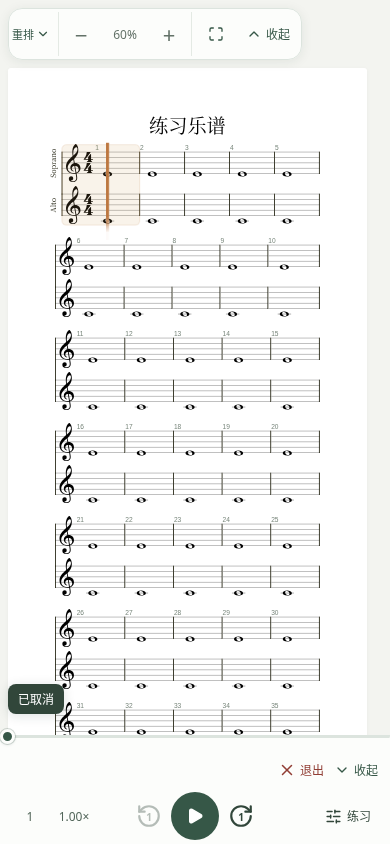
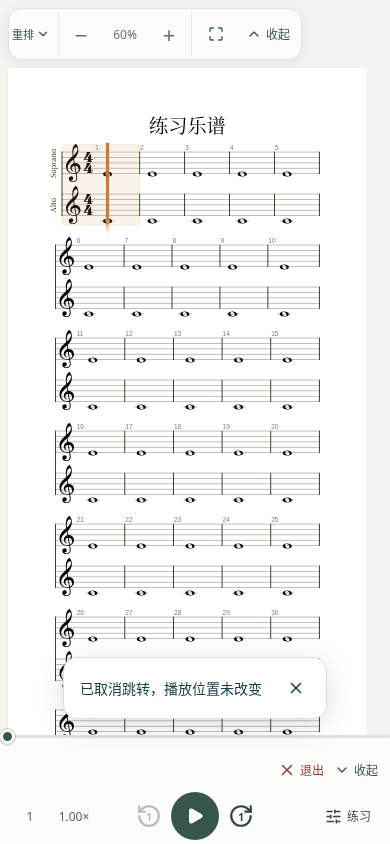
复用取消提示并提前跟随下一行谱面

Changed region(s): [[0.0, 0.7701, 0.8308, 0.8626]]

diff --git a/src/client/playback/playback-timeline.tsx b/src/client/playback/playback-timeline.tsx
@@ -1,22 +1,25 @@
+import { FeedbackMessage } from '../components/feedback-message';
+import { useFeedbackMessage } from '../components/use-feedback-message';
 import { useCallback, useEffect, useLayoutEffect, useRef, useState, type CSSProperties } from 'react';
 export type Timeline = { value: number; min?: number; max: number; step?: number; disabled: boolean; label(value: number): string; seek(value: number): void; preview?(value: number | null): void };
 export function PlaybackTimeline({ timeline }: { timeline: Timeline }) {
   const [draft, setDraft] = useState<number | null>(null);
-  const [cancelled, setCancelled] = useState(false);
+  const feedback = useFeedbackMessage();
+  const { setMessage, dismiss } = feedback;
   const bubble = useRef<HTMLOutputElement>(null);
   const [halfWidth, setHalfWidth] = useState(72);
   const label = timeline.label(draft ?? timeline.value);
-  useLayoutEffect(() => { if (bubble.current) setHalfWidth(bubble.current.getBoundingClientRect().width / 2 + 8); }, [label, draft, cancelled]);
+  useLayoutEffect(() => { if (bubble.current) setHalfWidth(bubble.current.getBoundingClientRect().width / 2 + 8); }, [label, draft]);
   const pending = useRef<number | null>(null);
   const interaction = useRef<'pointer'|'keyboard'|'cancelled'|null>(null);
   const pointer = useRef<{ id: number; y: number } | null>(null);
   const latest = useRef(timeline);
   useEffect(() => { latest.current = timeline; }, [timeline]);
   const preview = (value: number) => { pending.current = value; setDraft(value); latest.current.preview?.(value); };
-  const cancel = useCallback(() => { if (interaction.current === null) return; pending.current = null; interaction.current = 'cancelled'; setDraft(null); setCancelled(pointer.current !== null); latest.current.preview?.(null); }, []);
+  const cancel = useCallback(() => { if (interaction.current === null || interaction.current === 'cancelled') return; pending.current = null; interaction.current = 'cancelled'; setDraft(null); setMessage('已取消跳转，播放位置未改变', { duration: 5000 }); latest.current.preview?.(null); }, [setMessage]);
   const commit = useCallback(() => {
     const value = pending.current;
-    pending.current = null; interaction.current = null; setDraft(null); setCancelled(false);
+    pending.current = null; interaction.current = null; setDraft(null);
     if (value !== null && !latest.current.disabled) latest.current.seek(value);
     else latest.current.preview?.(null);
   }, []);
@@ -27,14 +30,13 @@ export function PlaybackTimeline({ timeline }: { timeline: Timeline }) {
       move(event);
       pointer.current = null;
       if (interaction.current === 'pointer') commit();
-      else if (interaction.current === 'cancelled') setCancelled(false);
     };
     const move = (event: PointerEvent) => {
       if (pointer.current && event.pointerId === pointer.current.id && Math.abs(event.clientY - pointer.current.y) > 72 && interaction.current === 'pointer') cancel();
     };
     window.addEventListener('pointermove', move);
     window.addEventListener('pointerup', release);
-    const abort = () => { cancel(); pointer.current = null; setCancelled(false); };
+    const abort = () => { cancel(); pointer.current = null; };
     window.addEventListener('pointercancel', abort);
     window.addEventListener('blur', abort);
     return () => {
@@ -47,13 +49,13 @@ export function PlaybackTimeline({ timeline }: { timeline: Timeline }) {
   }, [cancel, commit]);
   const min = timeline.min ?? 0;
   const percent = timeline.max > min ? ((draft ?? timeline.value) - min) / (timeline.max - min) * 100 : 0;
-  return <div className="practice-timeline-track" style={{ '--practice-progress': `${percent}%` } as CSSProperties}>
-    {(draft !== null || cancelled) && <output ref={bubble} className="practice-timeline-preview" style={{ left: `clamp(${halfWidth}px, calc(${percent}% + ${10 - percent * .2}px), calc(100% - ${halfWidth}px))` }}>{cancelled ? '已取消' : label}</output>}
+  return <><div className="practice-timeline-track" style={{ '--practice-progress': `${percent}%` } as CSSProperties}>
+    {draft !== null && <output ref={bubble} className="practice-timeline-preview" style={{ left: `clamp(${halfWidth}px, calc(${percent}% + ${10 - percent * .2}px), calc(100% - ${halfWidth}px))` }}>{label}</output>}
     <input className="practice-timeline" aria-label="播放进度" aria-valuetext={label}
       type="range" min={min} max={timeline.max} step={timeline.step ?? 1} disabled={timeline.disabled} value={draft ?? timeline.value}
-      onPointerDown={event => { if (pointer.current && interaction.current !== 'cancelled') return; pointer.current = { id: event.pointerId, y: event.clientY }; setCancelled(false); interaction.current = 'pointer'; preview(timeline.value); }}
+      onPointerDown={event => { if (pointer.current && interaction.current !== 'cancelled') return; pointer.current = { id: event.pointerId, y: event.clientY }; dismiss(); interaction.current = 'pointer'; preview(timeline.value); }}
       onKeyDown={event => { if (['ArrowLeft','ArrowRight','ArrowUp','ArrowDown','Home','End','PageUp','PageDown'].includes(event.key) && !pointer.current) interaction.current = 'keyboard'; if (event.key === 'Escape') cancel(); }}
       onChange={event => { const value = Number(event.target.value); if (interaction.current === null) timeline.seek(value); else if (interaction.current !== 'cancelled') preview(value); }}
       onKeyUp={() => { if (interaction.current === 'keyboard') commit(); }} onBlur={() => { if (interaction.current === 'keyboard') commit(); }} />
-  </div>;
+  </div><FeedbackMessage feedback={feedback} closeLabel="关闭跳转提示" /></>;
 }

diff --git a/packages/player/src/session.ts b/packages/player/src/session.ts
@@ -75,7 +75,7 @@ export function createPlayerSession(element: HTMLElement, bytes: Uint8Array, opt
     display: { scale: .6, resources: { secondaryGlyphColor: '#000000', barNumberColor: '#78867b' } },
     player: { playerMode: alphaTab.PlayerMode.EnabledSynthesizer, soundFont: '/soundfont/sonivox.sf2', enableCursor: true,
       enableAnimatedBeatCursor: true, enableElementHighlighting: true, enableUserInteraction: false,
-      scrollElement: viewport ?? element, scrollMode: viewport ? alphaTab.ScrollMode.OffScreen : alphaTab.ScrollMode.Off, scrollOffsetY: -28 },
+      scrollElement: viewport ?? element, scrollMode: alphaTab.ScrollMode.Off },
   });
   const originalColors = { ...api.settings.display.resources };
   const play = () => {
@@ -245,8 +245,7 @@ export function createPlayerSession(element: HTMLElement, bytes: Uint8Array, opt
 
   const setFollow = (enabled: boolean) => {
     if (enabled) follow.restore(); else follow.suspend();
-    api.settings.player.scrollMode = enabled && viewport ? alphaTab.ScrollMode.OffScreen : alphaTab.ScrollMode.Off;
-    api.updateSettings(); update({ following: enabled });
+    update({ following: enabled });
     if (enabled && state.status === 'ready') scrollToMeasure(state.measure);
   };
   const intent = () => { anchor = null; follow.noteManualScrollIntent(performance.now()); };
@@ -371,12 +370,19 @@ export function createPlayerSession(element: HTMLElement, bytes: Uint8Array, opt
     const tempo = tempoAt(event.currentTick);
     if (index >= 0 && (index !== state.measure || tempo.bpm !== state.tempo?.bpm || tempo.unit !== state.tempo?.unit)) {
       update({ measure: index, tempo });
-      if (api.isCollection && state.following && viewport) {
-        const bounds = api.boundsLookup?.findMasterBar(api.tickCache!.masterBars[index].masterBar)?.realBounds;
-        if (!bounds) scrollToMeasure(index);
+      if (state.following && viewport && !preview) {
+        const measure = api.boundsLookup?.findMasterBar(api.tickCache!.masterBars[index].masterBar);
+        const row = measure?.staffSystemBounds?.realBounds ?? measure?.realBounds;
+        if (!row) scrollToMeasure(index);
         else {
-          const top = element.getBoundingClientRect().top + bounds.y, view = viewport.getBoundingClientRect();
-          if (top < view.top + 28 || top + bounds.h > view.bottom) scrollToMeasure(index);
+          const origin = element.getBoundingClientRect(), view = viewport.getBoundingClientRect();
+          const scale = element.offsetWidth ? origin.width / element.offsetWidth : 1;
+          const clearance = Math.max(16, parseFloat(viewport.ownerDocument?.defaultView?.getComputedStyle(viewport).scrollPaddingTop ?? '') || 0);
+          const next = api.boundsLookup?.staffSystems.find(system => system.realBounds.y > row.y + 1)?.realBounds;
+          const top = origin.top + row.y * scale, bottom = top + row.h * scale;
+          // Keep a complete next system available to read, without scrolling on every beat.
+          const nextBottom = next && origin.top + (next.y + next.h) * scale;
+          if (top < view.top + clearance - 1 || bottom > view.bottom || nextBottom && nextBottom > view.bottom && top > view.top + clearance + 1) scrollToMeasure(index, clearance);
         }
       }
     }
@@ -472,13 +478,9 @@ export function createPlayerSession(element: HTMLElement, bytes: Uint8Array, opt
       else highlight(state.loop.start, state.loop.end);
     }
   };
-  const restoreScrollMode = () => {
-    api.settings.player.scrollMode = state.following && viewport ? alphaTab.ScrollMode.OffScreen : alphaTab.ScrollMode.Off;
-    api.updateSettings();
-  };
   const finishPreview = (restore = true) => {
     if (!preview) return;
-    const previous = preview; preview = null; clearPreviewMarkers(); update({ previewing: false }); restoreScrollMode(); highlightLoop();
+    const previous = preview; preview = null; clearPreviewMarkers(); update({ previewing: false }); highlightLoop();
     if (!restore) return;
     if (previous.restoreView) previous.restoreView();
     else if (viewport) viewport.scrollTop = previous.scrollTop;
@@ -593,7 +595,7 @@ export function createPlayerSession(element: HTMLElement, bytes: Uint8Array, opt
         const wasPlaying = state.playing || countInActive; stopCountIn();
         preview = { playing: wasPlaying, scrollTop: viewport?.scrollTop ?? 0, scrollLeft: viewport?.scrollLeft ?? 0, restoreView: api.isCollection ? api.captureView() : undefined, index, range: range ?? { start: index, end: index } };
         update({ previewing: true });
-        api.settings.player.scrollMode = alphaTab.ScrollMode.Off; api.updateSettings(); api.pause();
+        api.pause();
       }
       preview.index = index; preview.range = range ?? { start: index, end: index };
       showPreview(index);
@@ -601,7 +603,7 @@ export function createPlayerSession(element: HTMLElement, bytes: Uint8Array, opt
     loop(start, end) {
       if (disposed || state.status !== 'ready') return;
       if (start !== null && (end === undefined || end < start || !state.measures[start] || !state.measures[end])) return;
-      const resume = preview?.playing ?? false; preview = null; clearPreviewMarkers(); update({ previewing: false }); restoreScrollMode();
+      const resume = preview?.playing ?? false; preview = null; clearPreviewMarkers(); update({ previewing: false });
       if (start === null) { api.isLooping = false; api.playbackRange = null; update({ loop: null }); }
       else {
         api.playbackRange = { startTick: state.measures[start].startTick, endTick: state.measures[end!].endTick };

diff --git a/src/client/playback/use-notation-toolbar-clearance.ts b/src/client/playback/use-notation-toolbar-clearance.ts
@@ -8,6 +8,7 @@ export function useNotationToolbarClearance(viewport: RefObject<HTMLElement | nu
     const scroll = viewport.current;
     if (!scroll || !session || !enabled) return;
     let frame = 0;
+    const previousPadding = scroll.style.scrollPaddingTop;
     const place = () => {
       frame = 0;
       const state = session.getSnapshot();
@@ -20,6 +21,8 @@ export function useNotationToolbarClearance(viewport: RefObject<HTMLElement | nu
         .map(toolbar => toolbar.getBoundingClientRect())
         .filter(tools => tools.width > 0 && tools.height > 0 && bar.right > tools.left && bar.left < tools.right && tools.bottom > area.top)
         .reduce((top, tools) => Math.max(top, tools.bottom + 12), area.top + 12);
+      // Share the actual reading edge with playback follow.
+      scroll.style.scrollPaddingTop = `${clearance - area.top}px`;
       const bottom = area.bottom - 8;
       // Oversized systems cannot fit vertically: align their first staff so it
       // remains readable. Otherwise move only when chrome/edges obscure them.
@@ -51,6 +54,6 @@ export function useNotationToolbarClearance(viewport: RefObject<HTMLElement | nu
     if (paper) observer.observe(paper);
     scroll.addEventListener('scroll', schedule, { passive: true });
     schedule();
-    return () => { release(); observer.disconnect(); cursorObserver.disconnect(); structureObserver.disconnect(); scroll.removeEventListener('scroll', schedule); cancelAnimationFrame(frame); };
+    return () => { scroll.style.scrollPaddingTop = previousPadding; release(); observer.disconnect(); cursorObserver.disconnect(); structureObserver.disconnect(); scroll.removeEventListener('scroll', schedule); cancelAnimationFrame(frame); };
   }, [viewport, session, enabled, view]);
 }

diff --git a/src/client/playback/playback-timeline.test.tsx b/src/client/playback/playback-timeline.test.tsx
@@ -15,7 +15,9 @@ it('shows the target label during scrubbing and cancels without seeking',()=>{
  const input=screen.getByRole('slider');fireEvent.pointerDown(input);fireEvent.change(input,{target:{value:'8'}});
  expect(screen.getByRole('status')).toHaveTextContent('第 9 小节');expect(input).toHaveAttribute('aria-valuetext','第 9 小节');
  fireEvent.pointerCancel(window);fireEvent.pointerUp(window);
- expect(seek).not.toHaveBeenCalled();expect(screen.queryByRole('status')).not.toBeInTheDocument();
+ expect(seek).not.toHaveBeenCalled();expect(input.parentElement?.querySelector('output')).toBeNull();
+ expect(screen.getByRole('status')).toHaveTextContent('已取消跳转，播放位置未改变');
+ fireEvent.click(screen.getByRole('button',{name:'关闭跳转提示'}));expect(screen.queryByText('已取消跳转，播放位置未改变')).not.toBeInTheDocument();
 });
 it('commits a release outside the slider only once and uses the latest seek',()=>{
  const first=vi.fn(),second=vi.fn();const props={value:0,max:10,disabled:false,label:String,seek:first};

diff --git a/src/client/playback/use-notation-toolbar-clearance.test.tsx b/src/client/playback/use-notation-toolbar-clearance.test.tsx
@@ -22,5 +22,5 @@ it('does not pull endpoint preview back to the audio cursor, then resumes cleara
  render(<Harness />);const viewport=screen.getByTestId('viewport');viewport.scrollTop=500;
  act(()=>frames.splice(0).forEach(fn=>fn(0)));expect(viewport.scrollTop).toBe(500);
  state={...state,previewing:false};fireEvent.scroll(viewport);
- act(()=>frames.splice(0).forEach(fn=>fn(0)));expect(viewport.scrollTop).toBe(0);
+ act(()=>frames.splice(0).forEach(fn=>fn(0)));expect(viewport.scrollTop).toBe(0);expect(viewport.style.scrollPaddingTop).toBe('92px');
 });

diff --git a/docs/verification/xml-scrub.md b/docs/verification/xml-scrub.md
@@ -10,7 +10,7 @@
 
 [W3C Dragging Movements](https://www.w3.org/WAI/WCAG22/Understanding/dragging-movements.html)强调保留不依赖拖动的单指针操作，因此继续保留「定位小节」弹层与前后小节按钮。
 
-比较了严格离开滑块即取消、额外取消按钮、垂直移出后取消。严格边界容易误触；额外按钮需要在单指按住时另作操作。因此保留水平拖动和原生 range 的键盘／辅助技术行为，**从按下位置垂直移出超过 72 CSS px，即取消本次手势**。72px 是本产品为手指抖动保留余量的选择，并非平台标准。拖动气泡只显示目标小节，不增加操作说明文字；实际取消后只显示「已取消」，松手后消失，预览高亮即时移除。取消是本次手势的最终状态，移回、继续拖动和松手均不会重新确认；重新按下可以开始新手势。
+比较了严格离开滑块即取消、额外取消按钮、垂直移出后取消。严格边界容易误触；额外按钮需要在单指按住时另作操作。因此保留水平拖动和原生 range 的键盘／辅助技术行为，**从按下位置垂直移出超过 72 CSS px，即取消本次手势**。72px 是本产品为手指抖动保留余量的选择，并非平台标准。拖动气泡只显示目标小节，不增加操作说明文字；实际取消后复用全站 `FeedbackMessage`，显示「已取消跳转，播放位置未改变」，5 秒后自动消失，也可点关闭；阅读／聚焦提示时沿用统一的暂停计时行为。预览高亮即时移除。取消是本次手势的最终状态，移回、继续拖动和松手均不会重新确认；重新按下可以开始新手势。
 
 ## 最终行为
 
@@ -28,7 +28,7 @@
 | --- | --- |
 | ![修改前](xml-scrub/before-chromium-preview.png) | ![修改后](xml-scrub/after-chromium-preview.png) |
 
-![垂直移出后恢复原谱面，短暂显示「已取消」](xml-scrub/after-chromium-cancel.png)
+![垂直移出后恢复原谱面，使用统一的可关闭临时提示](xml-scrub/after-chromium-cancel.png)
 
 截图无法证明松手是否提交。浏览器验证实际执行「按住 → 横移到目标 → 上移 100px → 移回进度条 → 松手」，并检查播放进度仍为原值、谱面滚动位置恢复、引擎 `alphaSynth.setTickPosition` 命令数组为空。另执行正常确认，检查仅有一次目标寻址；播放中确认与取消均继续播放。这样同时验证界面和实际引擎动作。
 
@@ -37,3 +37,18 @@
 生产构建（含类型与预缓存检查）、ESLint 通过；播放器 383 项、相关客户端 24 项、浏览器分组／选择 12 项通过。Chromium／WebKit 的进度拖动、片段循环、预备拍、播放器界面共 8 项通过；补齐放大查看后重新验证拖动与循环 4 项。保留一个浏览器回归入口 `browser-tests/playback-scrub.test.mjs`，补充原有 timeline／session 测试，复用片段循环、节拍预备和播放器界面回归。浏览器截图在 `artifacts/verification/xml-scrub/` 生成，本页只保留三张对照证据。
 
 触摸拖动通过 Chromium CDP 原生触摸输入验证；WebKit 验证鼠标、键盘、原生 range 失焦行为及视图恢复。未做 iOS／Android 真机手势、实际听感验收，不把触摸模拟等同于真机体验。未合并、未部署。
+
+
+## 预读下一行与统一取消反馈
+
+自动跟随以整行（全部声部的 system）判断可读范围。有足够空间完整显示当前行和下一行时，保持页面稳定；下一行不能完整显示时，把当前行移到阅读区上方，提前留出预读空间。最后一行只检查自身可见性；一行过高或屏幕太矮时不反复尝试容纳不可能同时放下的两行。手动滚动后仍暂停跟随，点击有效小节或恢复跟随才重新接管。
+
+普通谱和 Opus 合集使用同一判断；关闭引擎原有的较晚滚动路径，避免与提前跟随竞争。沿用工具条的遮挡计算，通过标准 `scroll-padding-top` 共享实际阅读边界，保留安全区域和放大坐标。仅在小节／速度段变化时判断，不逐拍推动页面。
+
+![连续播放时提前滚动，为下一完整行留出空间](xml-scrub/after-chromium-read-ahead.png)
+
+取消反馈使用已有的提示队列、关闭按钮、朗读区域和定时器，不新增提示控件／CSS。文案适用于播放与暂停状态；取消不会切换小节，播放中自然继续。新拖动开始会清除上一条取消提示。
+
+本轮验证：生产构建与 lint 通过；播放器 385 项、相关客户端 14 项通过；Chromium／WebKit 的拖动与连续播放、循环、播放器界面共 6 项通过，另通过 Chromium 的 Opus 合集回归。浏览器实播先确认首行保持稳定，再确认后续行提前滚动；会话测试分别覆盖普通谱／合集的几何边界、末行与手动浏览。不代表真实 iOS／Android 设备验收。
+
+Modern Web Guidance：本轮查询滚动可见性和临时提示，滚动查询未找到直接适用指南；提示复用现有 React Aria 组件，沿用 `persistent-toast-notifications` 的可关闭、聚焦时暂停自动消失，以及 `accessibility` 的统一温和朗读区域建议。按用户要求保持现有组件，不另造原生 popover 或引入 polyfill。
